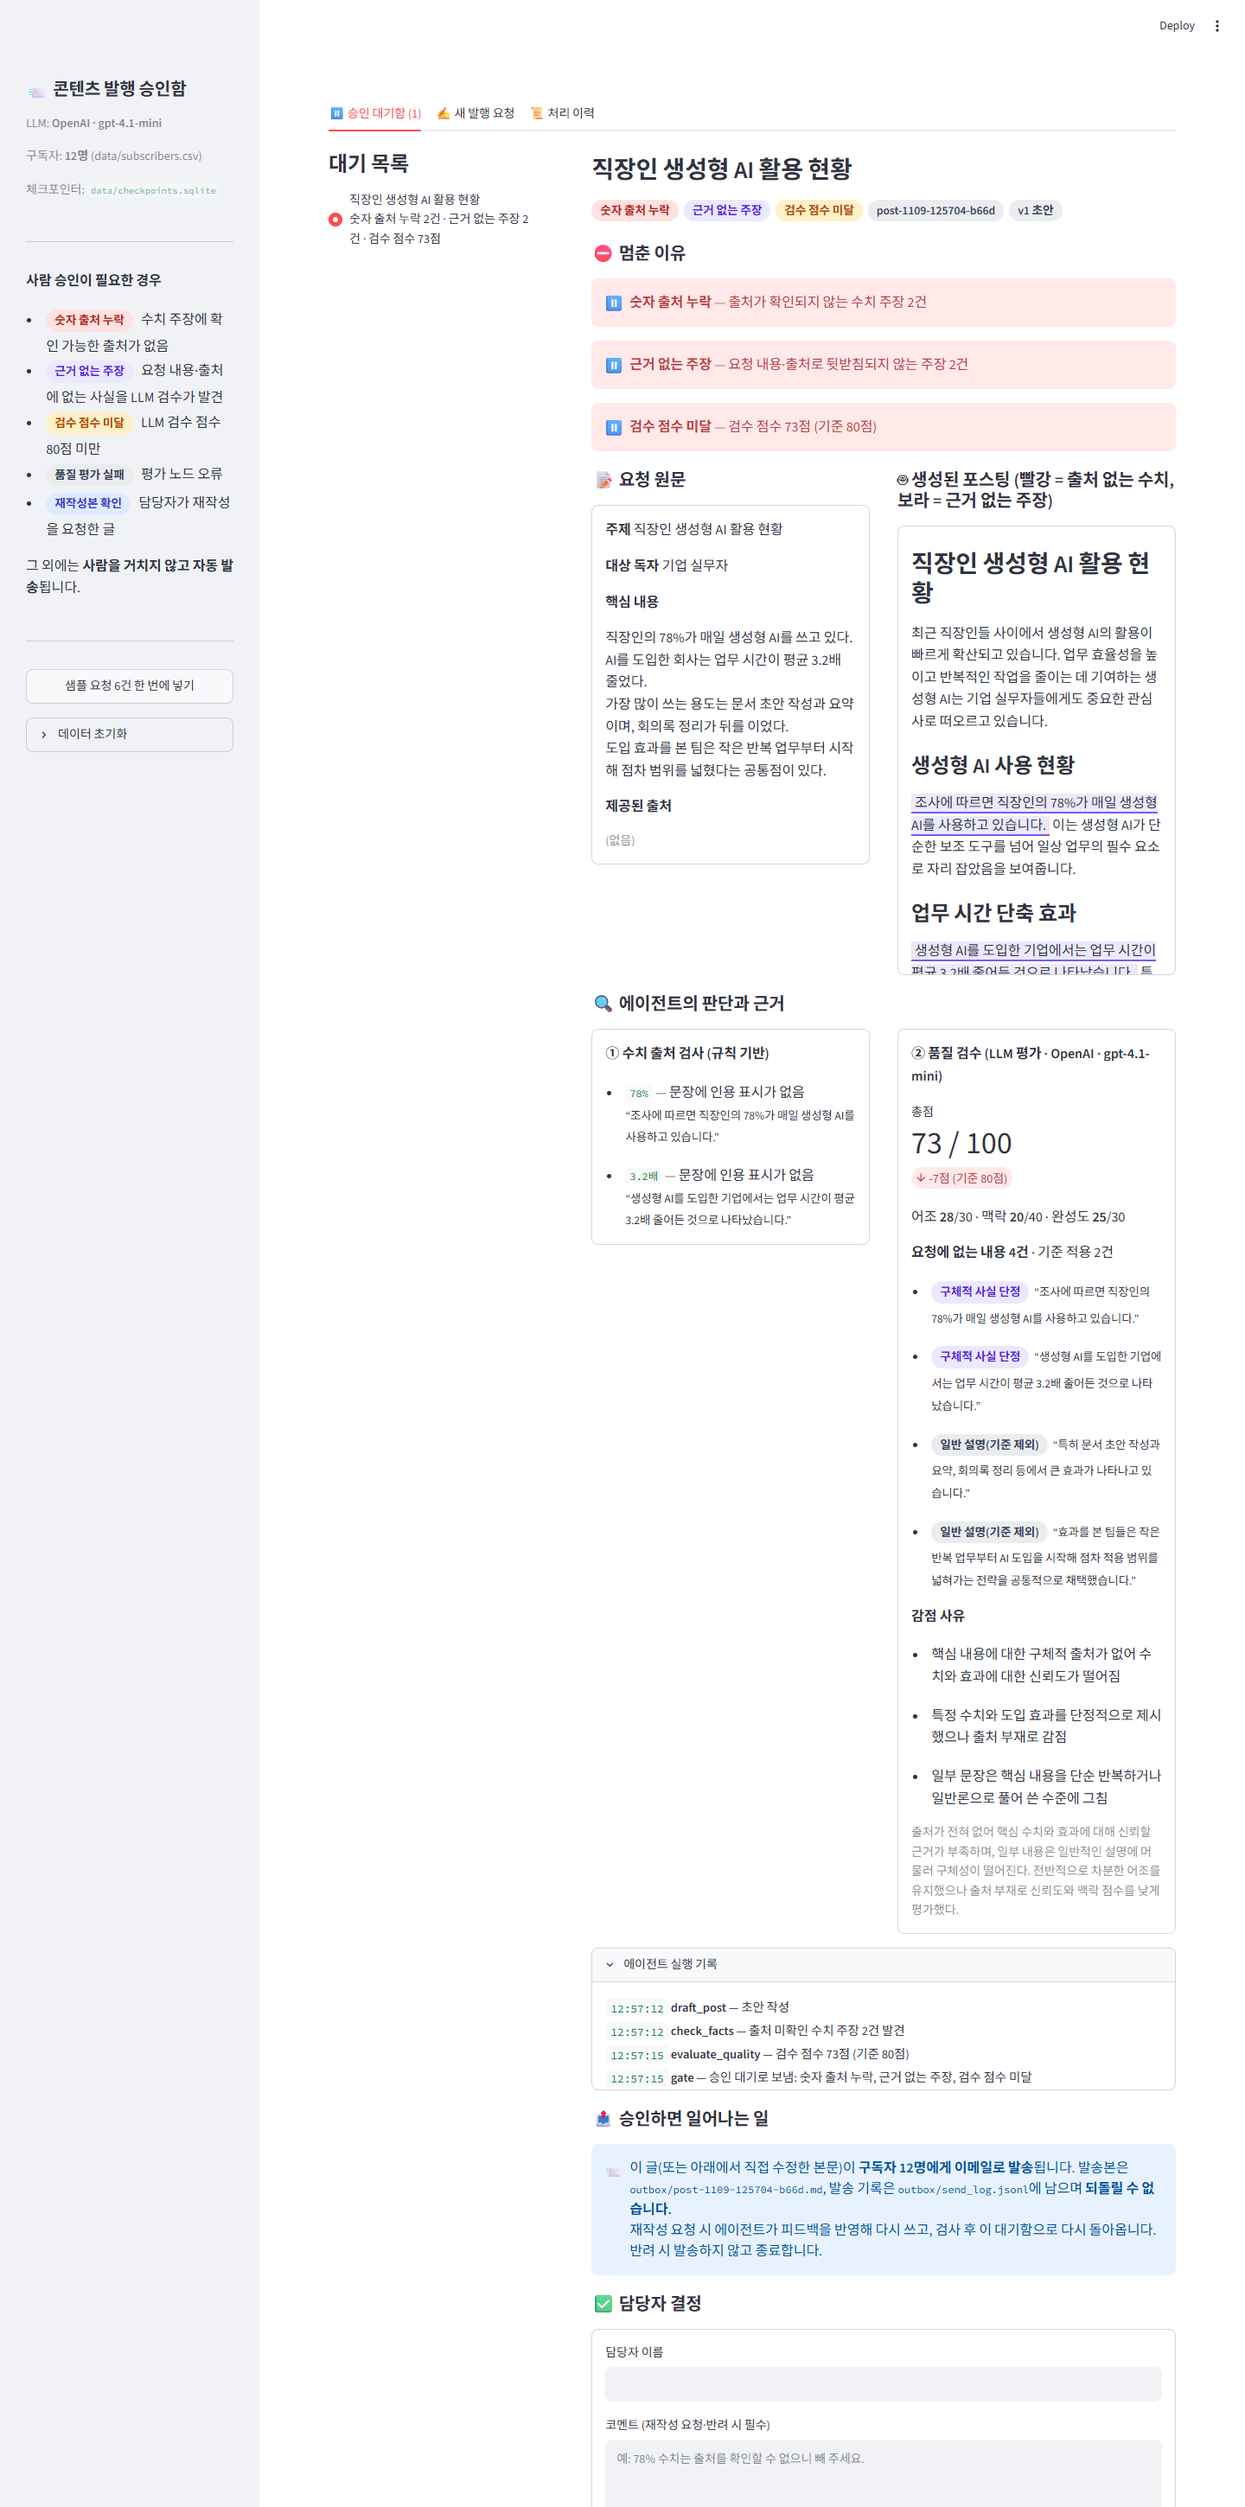
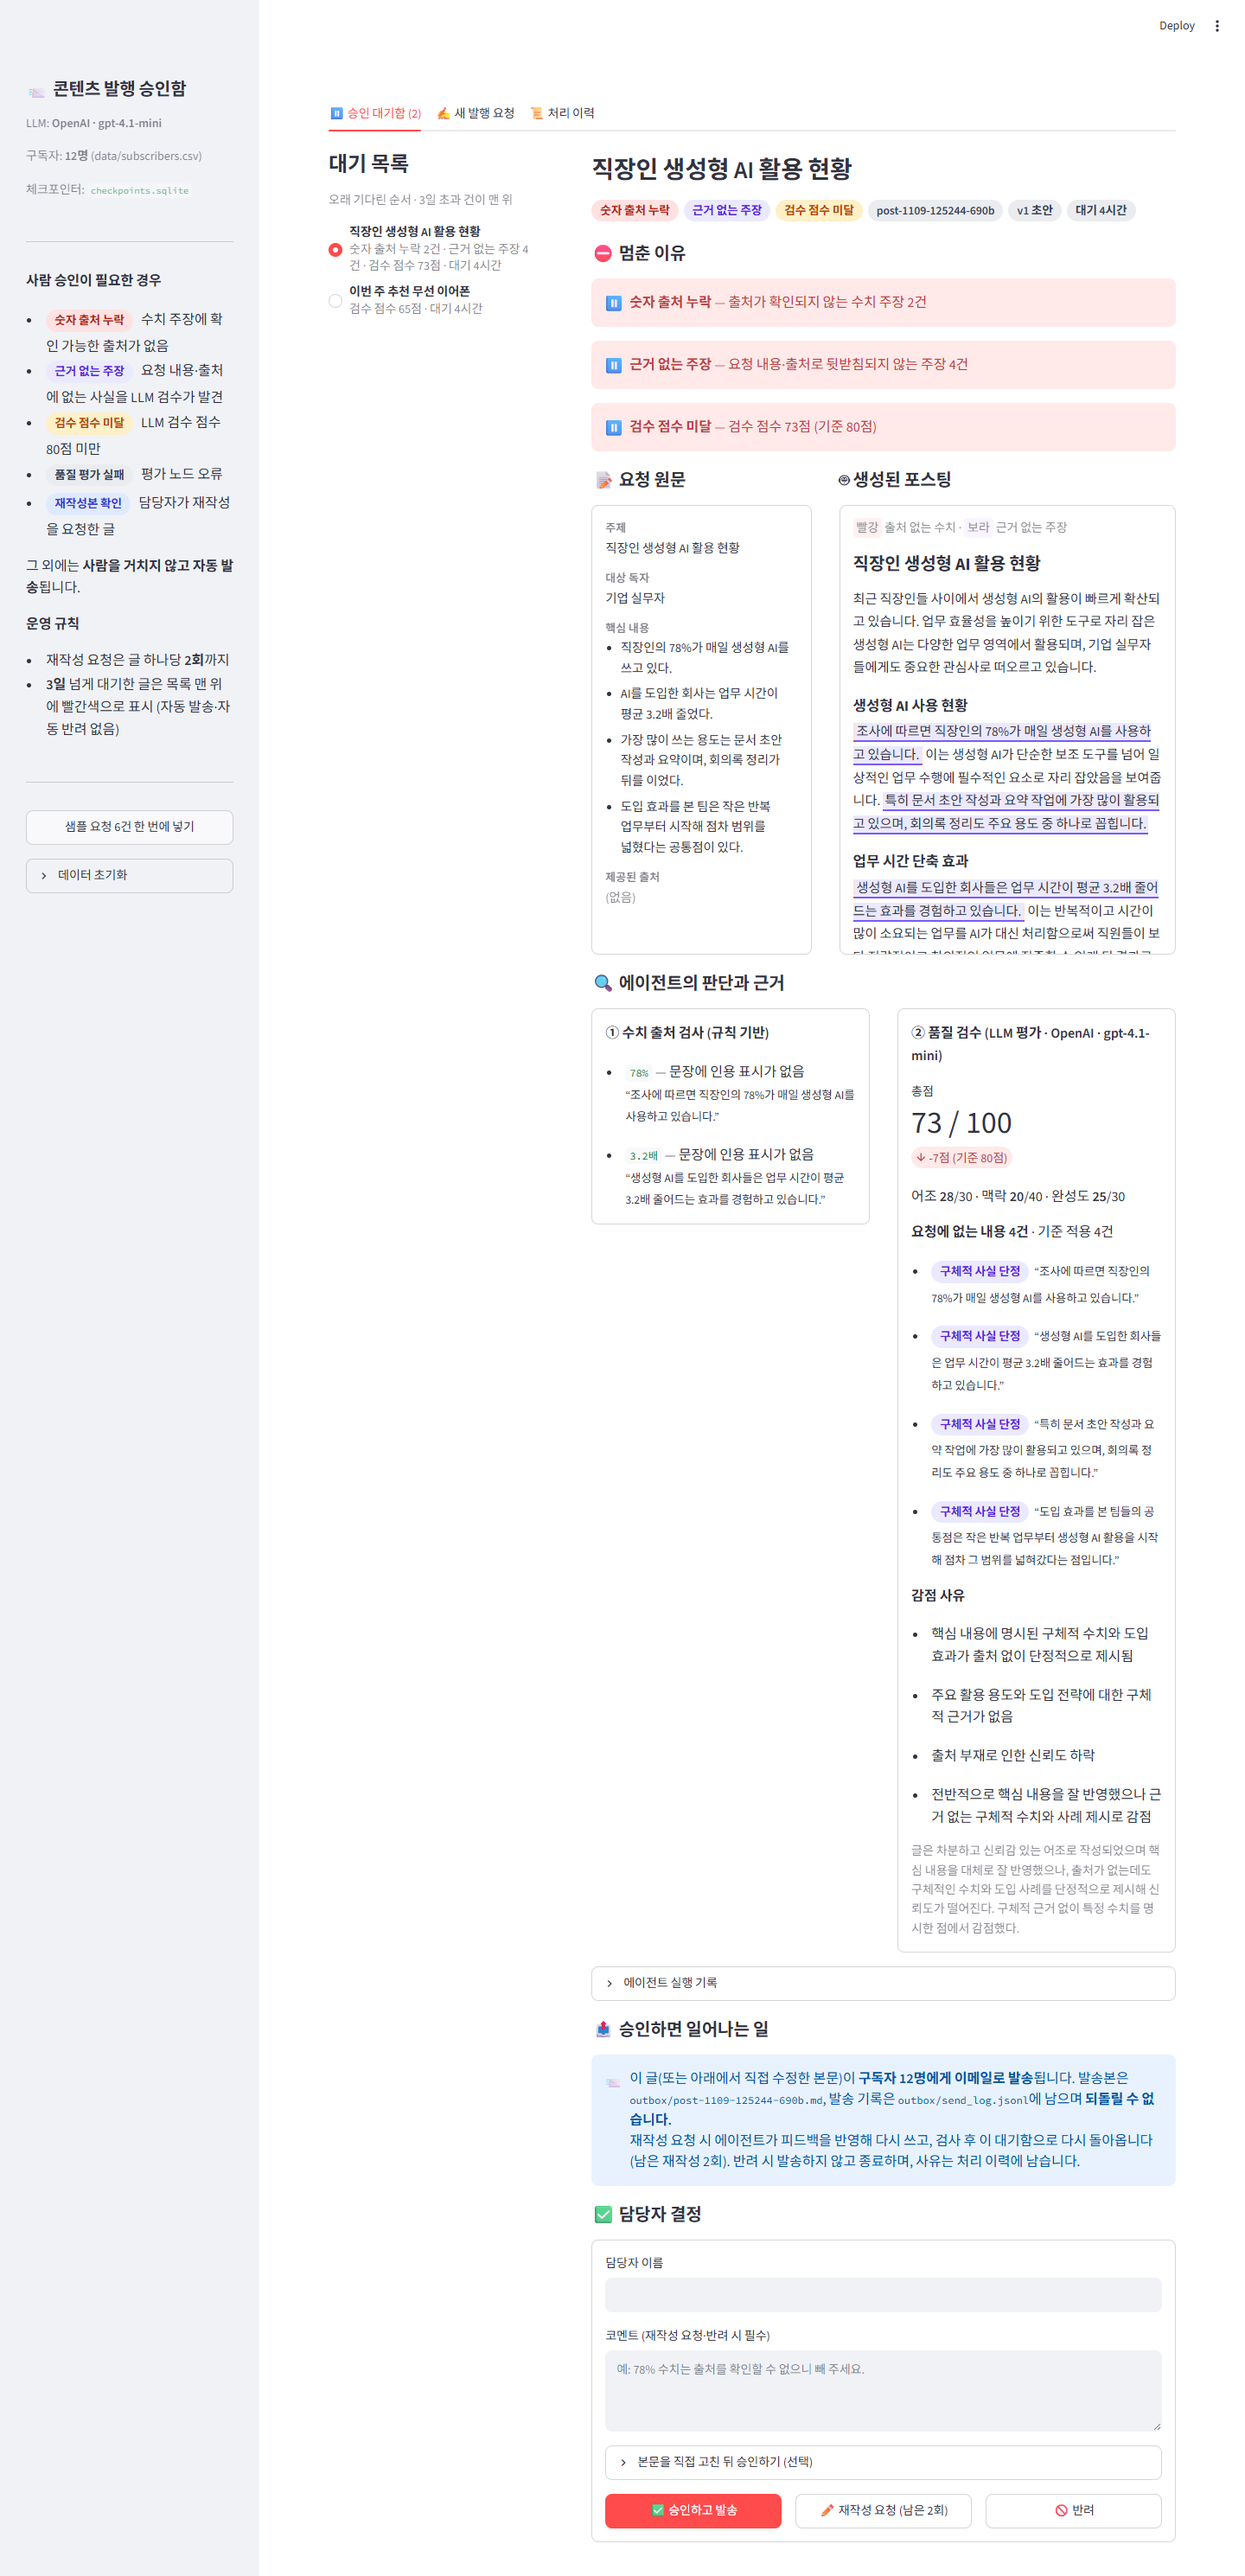
Recapture REPORT screenshots with the new approval screen
- 01-04 taken from a copy of the real checkpoint DB, forked back to the
  checkpoints where #5 (v1, v2) and #6 were waiting for approval
- 05-07 from an untouched copy of the real DB, 08 from the offline demo DB
- History tab renders posts with the same readable layout
- Sidebar shows only the file name for checkpoint DBs outside the repo

diff --git a/app.py b/app.py
@@ -158,7 +158,10 @@ with st.sidebar:
     st.header("📨 콘텐츠 발행 승인함")
     st.caption(f"LLM: **{llm.provider_label()}**")
     st.caption(f"구독자: **{subscriber_count()}명** (data/subscribers.csv)")
-    st.caption(f"체크포인터: `{os.getenv('CHECKPOINT_DB') or 'data/checkpoints.sqlite'}`")
+    _db = os.getenv("CHECKPOINT_DB") or "data/checkpoints.sqlite"
+    if os.path.isabs(_db):  # 저장소 밖의 DB는 로컬 경로를 화면에 그대로 드러내지 않고 파일 이름만 보여 준다
+        _db = os.path.basename(_db)
+    st.caption(f"체크포인터: `{_db}`")
     st.divider()
     st.markdown("**사람 승인이 필요한 경우**")
     st.markdown(
@@ -392,7 +395,7 @@ with tab_log:
         d1, d2 = st.columns(2)
         with d1:
             with st.container(border=True, height=420):
-                st.markdown(j.get("draft", ""))
+                st.markdown(render_post(j.get("draft", ""), []), unsafe_allow_html=True)
         with d2:
             if j.get("decision"):
                 st.markdown(f"**담당자 결정**: {j['decision'].get('action')} · {j['decision'].get('reviewer') or '-'} · {j['decision'].get('comment') or ''}")

diff --git a/REPORT.md b/REPORT.md
@@ -186,7 +186,7 @@ Streamlit 앱(`app.py`)은 **⏸ 승인 대기함 / ✍ 새 발행 요청 
 ### 승인 대기함 — 한 건 상세 (위에서 아래로 읽는 순서 = 판단 순서)
 
 ![한 건 상세 전체](docs/screenshots/02_detail_numeric_full.png)
-<sub>같은 샘플 요청을 캡처용으로 한 번 더 실행한 화면입니다. 실행 결과 집계에는 포함하지 않았습니다.</sub>
+<sub>4장의 실제 실행(#5)이 멈춰 있던 시점의 화면입니다. 체크포인터에는 지나간 체크포인트가 모두 남아 있으므로, 실제 DB의 <b>복사본</b>에서 해당 시점으로 되돌려 캡처했습니다. 실제 DB와 실행 결과 집계는 바꾸지 않았습니다. 01~04도 같은 방법으로 캡처했습니다.</sub>
 
 | 순서 | 보여 주는 것 | 이유 |
 |---|---|---|
@@ -220,9 +220,6 @@ Streamlit 앱(`app.py`)은 **⏸ 승인 대기함 / ✍ 새 발행 요청 
 아래는 재작성을 2번 요청해 상한에 닿고, 4일째 대기 중인 건의 화면입니다. 캡처용으로 offline 모드와 별도 체크포인터 DB에서 만든 상태이며, 실행 결과 집계(4장)에는 포함하지 않았습니다.
 
 ![대기 기한 초과와 재작성 상한](docs/screenshots/08_overdue_revise_cap.png)
-
-<sub>01~07 화면은 대기 시간 표시와 재작성 상한을 넣기 전에 캡처했습니다. 그래서 목록의 "대기 n분"과 버튼의 "남은 n회" 표시가 없습니다.</sub>
-
 재작성본은 `v2 초안` 배지와 **직전 재작성 요청**이 원문 옆에 함께 보입니다.
 
 ![재작성본 확인](docs/screenshots/03_revised_v2.png)
